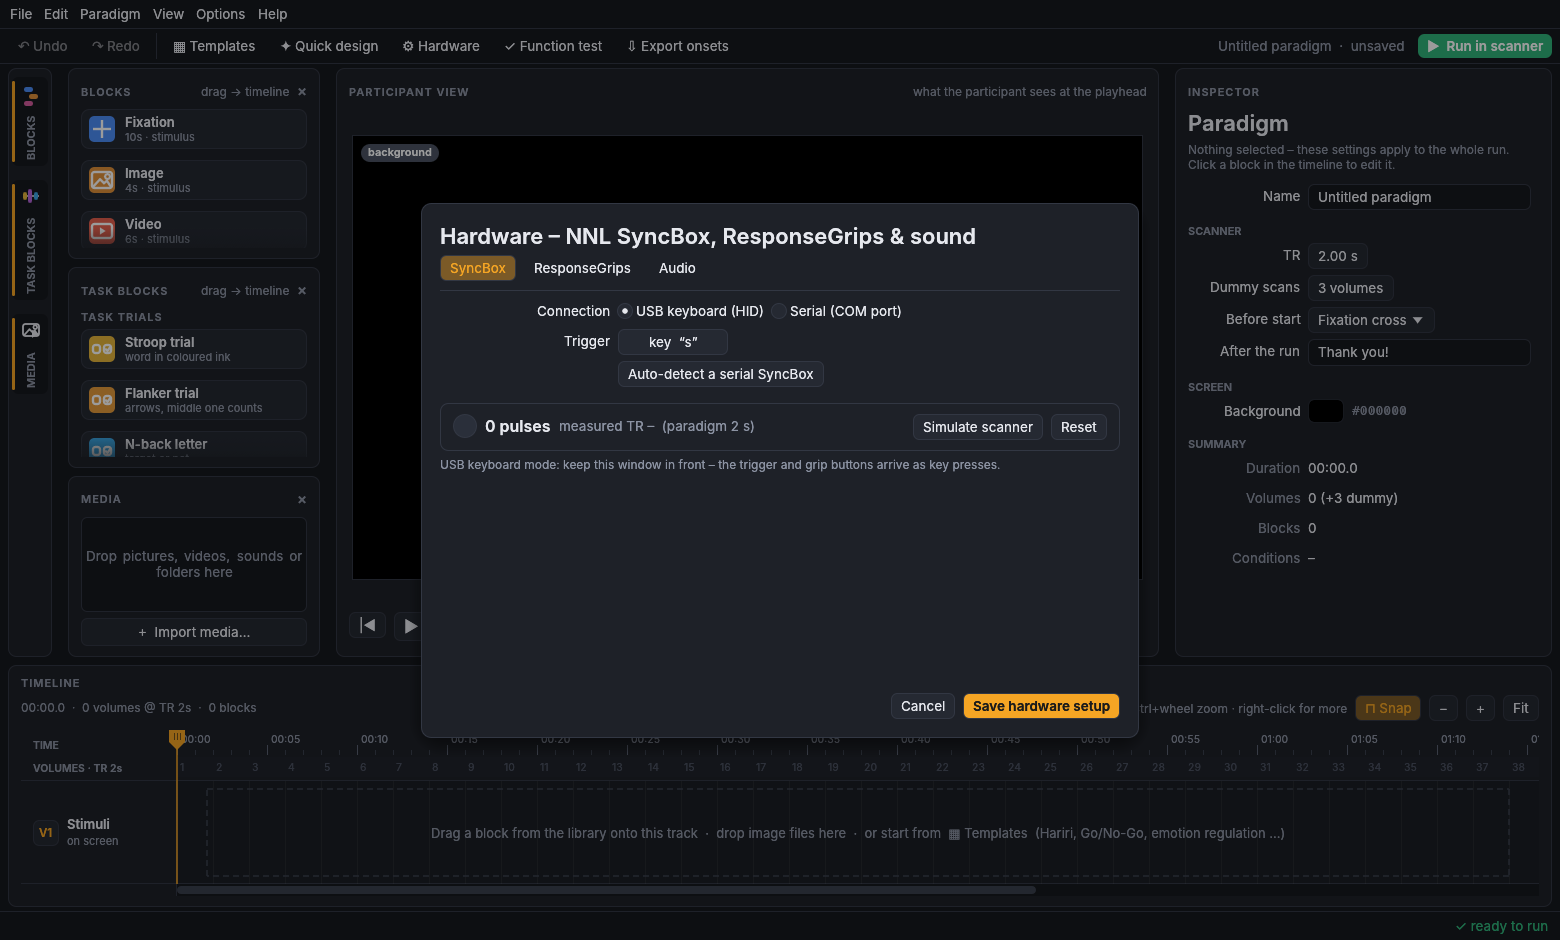
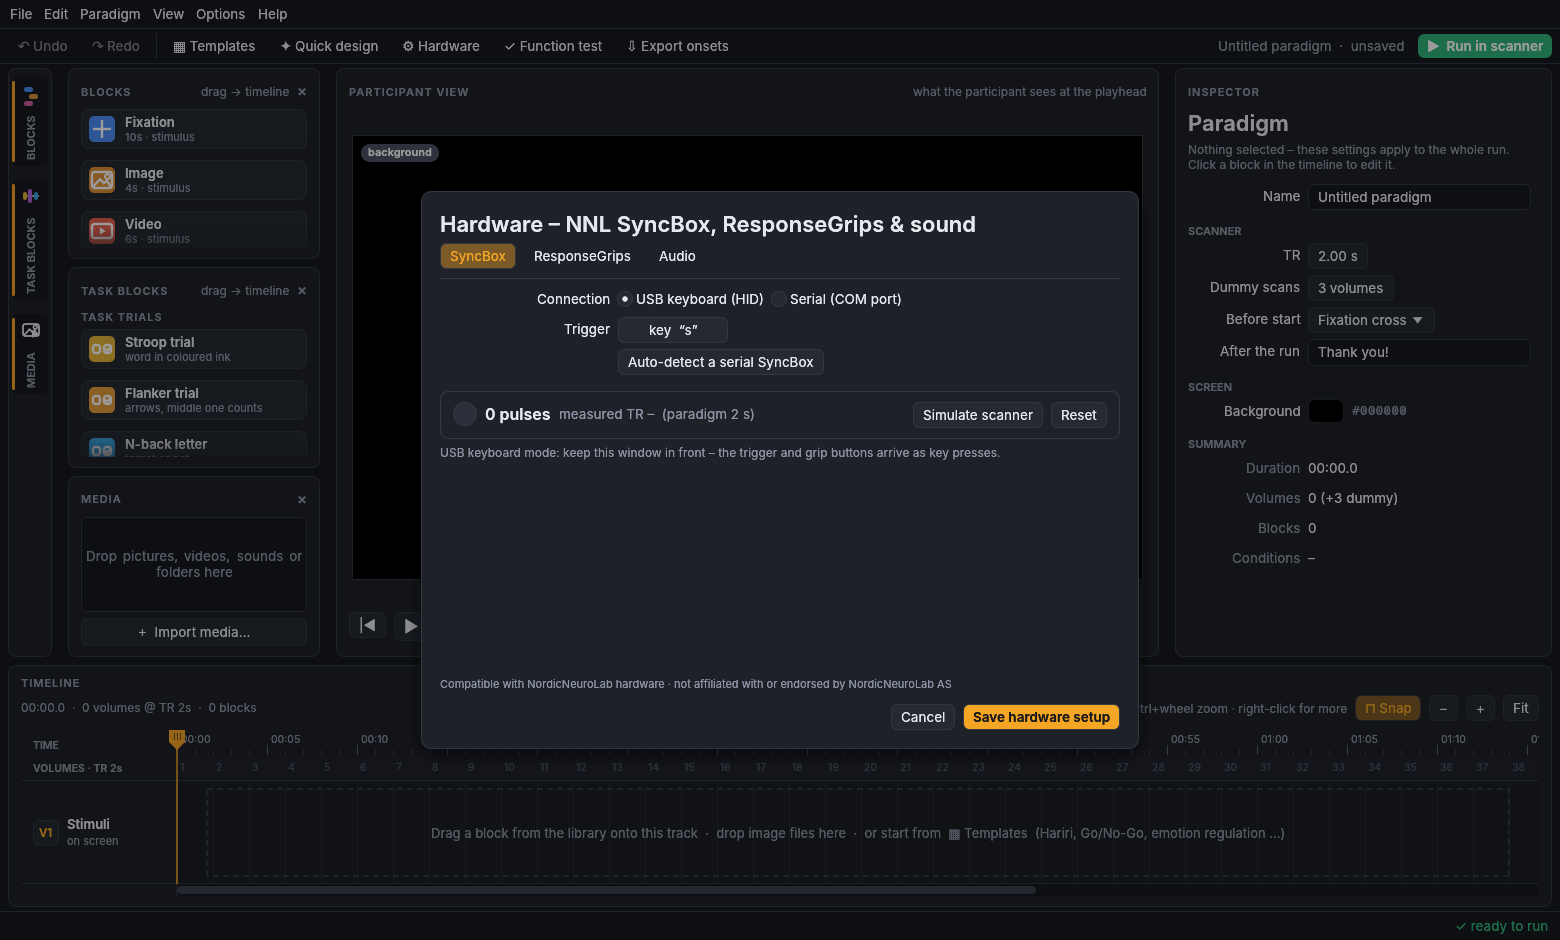
Release 0.6.4: NordicNeuroLab compatibility disclaimer
ParadigmShift is designed for compatibility with NordicNeuroLab (NNL)
hardware – the SyncBox (USB keyboard mode and NNL's published serial
protocol) and the ResponseGrips – but is an independent project, not
affiliated with, endorsed, sponsored or supported by NordicNeuroLab AS.
The names are used only to describe compatibility.

The note is shown
- in the About window (full text),
- at the bottom of the Hardware dialog (short, full text on hover),
- at the top of the README and in its hardware section (with the advice
  to check the setup with the function test before scanning),
- in the release notes of every download.

Claude-Session: https://claude.ai/code/session_01DjG5YSPbhFReU8LE9xNKWw

Changed region(s): [[0.2769, 0.1851, 0.7385, 0.5245], [0.2769, 0.7096, 0.7385, 0.8021]]

diff --git a/src/dialogs.rs b/src/dialogs.rs
@@ -162,6 +162,8 @@ impl AboutDialog {
                     "Built with egui. Fonts: Inter (SIL Open Font License), DejaVu Sans. Video decoding: OpenH264 \
                      (BSD). Sound: symphonia, rodio.",
                 );
+                ui.add_space(8.0);
+                theme::hint(ui, crate::hardware::NNL_DISCLAIMER);
             });
             let mut out = Outcome::Open;
             ui.add_space(8.0);
@@ -701,6 +703,16 @@ impl HardwareDialog {
                     self.audio_tab(ui);
                 }
             });
+            ui.add_space(4.0);
+            ui.add(
+                egui::Label::new(
+                    RichText::new("Compatible with NordicNeuroLab hardware · not affiliated with or endorsed by NordicNeuroLab AS")
+                        .color(TEXT_DIM)
+                        .size(11.0),
+                )
+                .wrap(),
+            )
+            .on_hover_text(crate::hardware::NNL_DISCLAIMER);
             buttons(ui, "Save hardware setup", true)
         });
         if out != Outcome::Open {

diff --git a/src/hardware.rs b/src/hardware.rs
@@ -76,6 +76,12 @@ pub fn describe_ports() -> Vec<PortInfo> {
 }
 
 /// Turn a serial-port error into something an operator can act on.
+/// Shown wherever NNL hardware is mentioned prominently (About, Hardware dialog, README, releases).
+pub const NNL_DISCLAIMER: &str = "Designed for compatibility with NordicNeuroLab (NNL) hardware – the SyncBox and the \
+    ResponseGrips. ParadigmShift is an independent project: it is not affiliated with, endorsed, sponsored or supported \
+    by NordicNeuroLab AS. NordicNeuroLab, NNL, SyncBox and ResponseGrip are names of NordicNeuroLab AS, used here only \
+    to describe compatibility.";
+
 /// Where FTDI's Virtual COM Port driver can be downloaded.
 pub const FTDI_VCP_URL: &str = "https://ftdichip.com/drivers/vcp-drivers/";
 

diff --git a/README.md b/README.md
@@ -8,6 +8,12 @@ exactly what the participant will see, then press **Run in scanner**. The app wa
 **NordicNeuroLab SyncBox** trigger and records **NNL ResponseGrip** presses and picture ratings into BIDS-style
 `events.tsv` files.
 
+> **Hardware compatibility & disclaimer:** ParadigmShift is designed for compatibility with **NordicNeuroLab (NNL)**
+> hardware – the **SyncBox** (USB keyboard mode and NNL's serial protocol) and the **ResponseGrips**. It is an
+> independent project and is **not affiliated with, endorsed, sponsored or supported by NordicNeuroLab AS**.
+> NordicNeuroLab, NNL, SyncBox and ResponseGrip are names of NordicNeuroLab AS, used here only to describe
+> compatibility.
+
 ![Editor](docs/screenshots/01_editor.png)
 
 ## Download
@@ -180,6 +186,11 @@ report themselves over HDMI/DisplayPort – the name the Windows display setting
 | ![](docs/screenshots/22_media_panel.png) The Media panel: a picture, a video (first frame, length) and a sound | |
 
 ## Scanner hardware (NNL)
+
+The hardware support is built around compatibility with NordicNeuroLab's SyncBox and ResponseGrips – using the
+SyncBox's USB keyboard output or NNL's own serial protocol, as published in their
+[py_syncbox](https://github.com/nordicneurolab/py_syncbox) project. ParadigmShift is not affiliated with or endorsed by
+NordicNeuroLab AS; please test your setup with the built-in function test before scanning participants.
 
 * **SyncBox** – *USB keyboard mode* (default): the trigger arrives as a key, default `s`. In *serial mode* the
   computer's keyboard is ignored – triggers and grip presses only count when they come from the SyncBox, so a key
